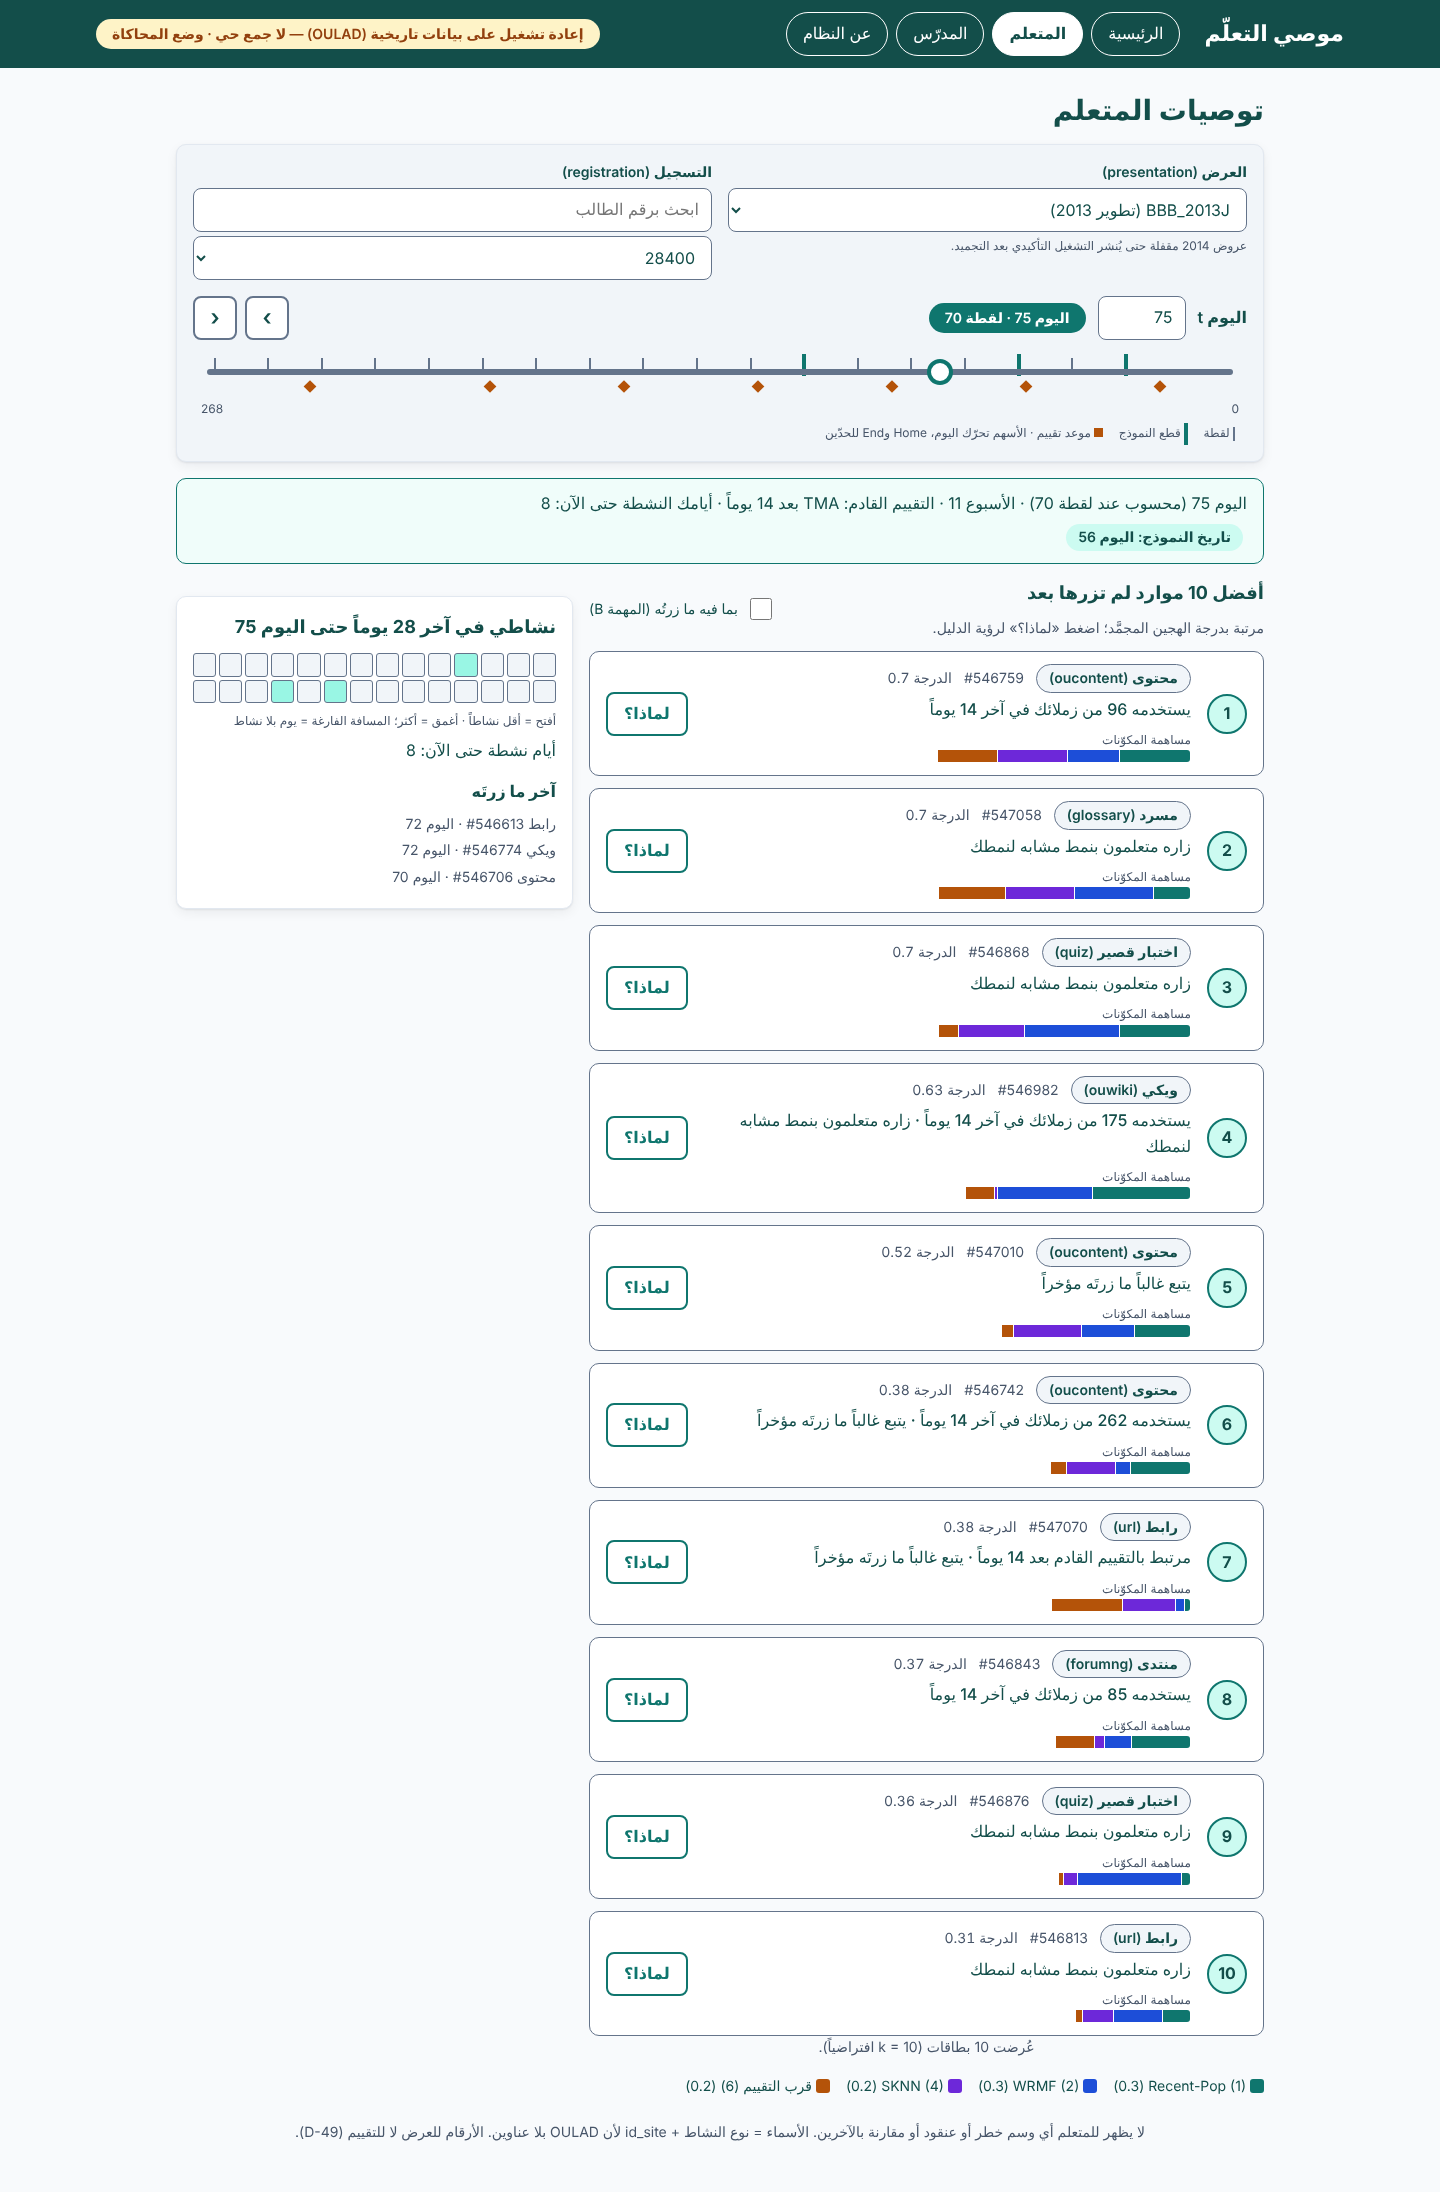
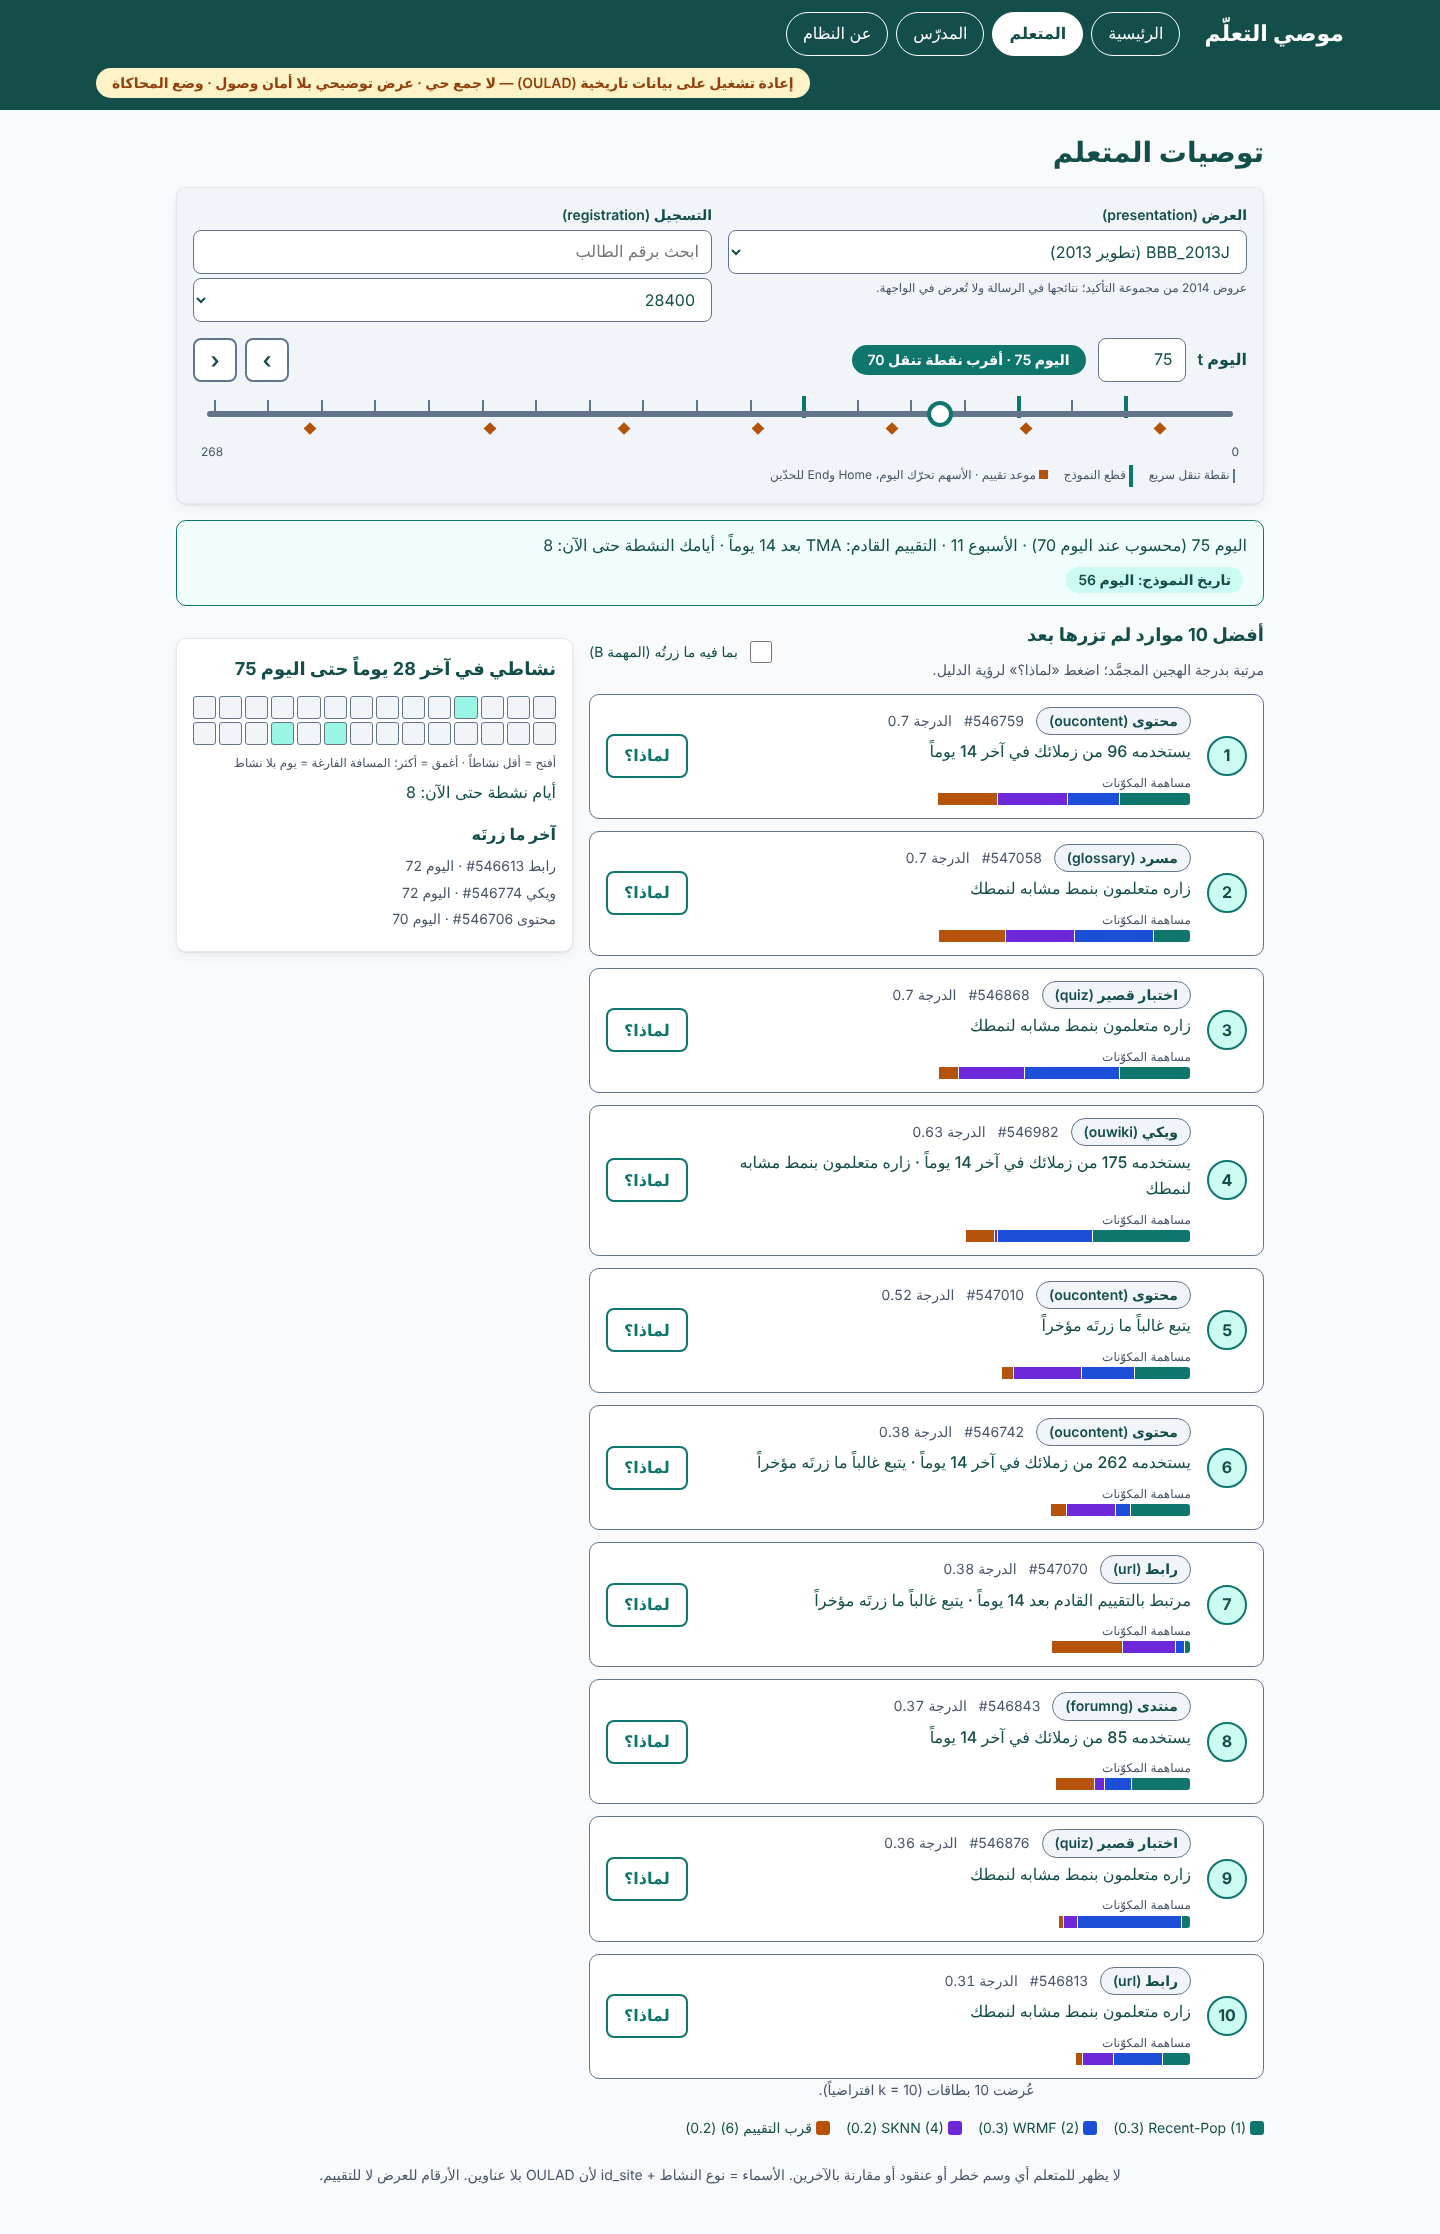
الواجهة: عروض 2014 «مقفلة في الواجهة» بدل «حتى النشر» (D-96(3))، ولقطات محدَّثة
- تعديل نصي وحده في 9 ملفات (رسالة 409، التسميات، التلميح، الشارة، about، README)؛ السلوك كما هو (409)، ولا مساس بـsrc/ml/
- اللقطات الحية والوهمية معاد توليدها (D-73 مستوفى)
- راجع الزميل الفرق: نصي وحده، الخلفية 52/52

Claude-Session: https://claude.ai/code/session_01Y5Ccgz17Pq2brpK5TTSYa7

diff --git a/src/frontend/about.html b/src/frontend/about.html
@@ -19,7 +19,7 @@
     <li>تفسير مكوّن GRU-lite عام وغير شفاف، ولا يُقيَّم التفسير بدراسة مستخدمين.</li>
     <li>درجة الخطر النسبية: ناتج انحدار لوجستي (L2) على ملامح السلوك في السجل (الأيام النشطة، انتظام الفجوات، أول وصول، حصص أنواع النشاط) حتى أقرب قطع (اليوم 28 أو 56 أو 112)، مدرَّبة على العروض الثمانية الأخرى من 2013 لتمييز من انتهى بـ«رسوب أو انسحاب» عمّن انتهى بـ«نجاح أو امتياز». هي غير معايَرة: ليست احتمالاً، وتصلح لترتيب الأولوية فقط، وللمدرّس وحده ولا تغيّر التوصيات.</li>
     <li>لا تُعرض السمات الحساسة (الجنس والإعاقة والمنطقة وغيرها) في أي شاشة.</li>
-    <li>عروض 2014 مقفلة حتى نشر التشغيل التأكيدي بعد التجميد.</li></ul></section>
+    <li>عروض 2014 من مجموعة التأكيد؛ نتائجها في الرسالة ولا تُعرض في الواجهة.</li></ul></section>
   <section class="card"><h2 class="h2">ثلاثة معانٍ لكلمة «قطع» و«لقطة»</h2>
     <div class="tablewrap"><table class="table"><caption class="sr-only">الفرق بين قطع النموذج وقطع الخطر ولقطة العناقيد</caption>
       <thead><tr><th scope="col">المصطلح</th><th scope="col">الأيام</th><th scope="col">ماذا يعني</th><th scope="col">أين يظهر</th></tr></thead>

diff --git a/src/frontend/src/api.ts b/src/frontend/src/api.ts
@@ -72,7 +72,7 @@ async function mockCheckDay(presentation: string, day: number): Promise<{ pres: 
   const list = await mockFile<Presentation[]>('presentations.json');
   const pres = list.find((x) => x.id === presentation);
   if (!pres) throw new ApiError(404, 'presentation_not_found', 'العرض غير موجود.');
-  if (pres.status !== 'published') throw new ApiError(409, 'confirmatory_locked', 'عرض 2014 مقفل حتى يُنشر بعد التجميد.');
+  if (pres.status !== 'published') throw new ApiError(409, 'confirmatory_locked', 'عرض 2014 من مجموعة التأكيد؛ نتائجه في الرسالة ولا يُعرض في الواجهة.');
   if (day > pres.length_days || day < 0) throw new ApiError(422, 'day_out_of_range', 'اليوم خارج مدى العرض.', { max_day: pres.length_days });
   const first = pres.snapshots[0];
   if (day < first) throw new ApiError(422, 'day_before_first_snapshot', `لا لقطة قبل اليوم ${first}.`, { first_day: first });

diff --git a/src/frontend/src/controls.ts b/src/frontend/src/controls.ts
@@ -16,7 +16,7 @@ export function presentationSelect(list: Presentation[], current: string, onChan
   for (const p of list) sel.append(h('option', { value: p.id, selected: p.id === current, disabled: p.status === 'locked' }, presLabel(p)));
   sel.addEventListener('change', () => onChange(sel.value));
   return h('div', { class: 'ctl' }, h('label', { for: id, class: 'ctl__lbl' }, 'العرض (presentation)'), sel,
-    list.some((p) => p.status === 'locked') ? h('span', { class: 'ctl__hint' }, 'عروض 2014 مقفلة حتى يُنشر التشغيل التأكيدي بعد التجميد.') : null);
+    list.some((p) => p.status === 'locked') ? h('span', { class: 'ctl__hint' }, 'عروض 2014 من مجموعة التأكيد؛ نتائجها في الرسالة ولا تُعرض في الواجهة.') : null);
 }
 
 export function makeScrubber(pres: Presentation, day: number, onChange: (d: number) => void): Scrubber {

diff --git a/src/frontend/src/home.ts b/src/frontend/src/home.ts
@@ -38,7 +38,7 @@ function render(): void {
     const b = h('button', { class: 'choice' + (p.id === st.p ? ' choice--on' : ''), type: 'button', role: 'radio', 'aria-checked': String(p.id === st.p), disabled: locked,
       onclick: () => { writeState({ p: p.id, r: '' }); render(); } },
       h('strong', {}, bdi(p.id)), h('span', {}, p.label_ar ?? p.role), h('span', { class: 'muted' }, `${registrationsAr(p.registrations)} · ${daysAr(p.length_days)}`),
-      locked ? h('span', { class: 'badge badge--warn' }, 'مقفل حتى النشر') : null);
+      locked ? h('span', { class: 'badge badge--warn' }, 'مقفل في الواجهة') : null);
     presGroup.append(b);
   }
   const picker = registrationPicker(st.p, st.r, (reg) => { writeState({ r: reg }); mount($('#cta-slot'), links()); });

diff --git a/src/backend/errors.py b/src/backend/errors.py
@@ -16,7 +16,7 @@ MESSAGES_AR = {
     "presentation_not_found": "العرض غير موجود.",
     "registration_not_found": "التسجيل غير موجود في هذا العرض.",
     "item_not_in_list": "التفسير غير متاح لهذا المورد: ليس ضمن أفضل 20 توصية لهذا التسجيل واليوم.",
-    "confirmatory_locked": "عروض 2014 مقفلة حتى يُنشر التشغيل التأكيدي بعد التجميد.",
+    "confirmatory_locked": "عروض 2014 من مجموعة التأكيد؛ نتائجها في الرسالة ولا تُعرض في الواجهة.",
     "instructor_disabled": "لوحة المدرّس معطّلة في هذا التشغيل (--no-instructor).",
     "day_before_first_snapshot": "لا تقدير للوحة المدرّس قبل أول يوم متاح.",
     "not_found": "المسار غير موجود.",

diff --git a/src/backend/services/replay.py b/src/backend/services/replay.py
@@ -93,7 +93,7 @@ class ReplayService:
         for n in LOCKED_LISTED:   # 2014: لا يُقرأ منها شيء (D-09)؛ العدد والطول غير معلنين
             out.append(Presentation(id=n, role="confirm", status="locked", length_days=0, snapshots=[],
                                     cutoffs=list(MODEL_CUTS), registrations=0,
-                                    label_ar="تأكيدي 2014 (مقفل حتى النشر)", assessments=[]))
+                                    label_ar="تأكيدي 2014 (مقفل في الواجهة)", assessments=[]))
         return out
 
     def _registration_frame(self, pres: str) -> pd.DataFrame:

diff --git a/src/backend/README.md b/src/backend/README.md
@@ -24,7 +24,7 @@ python3 -m src.backend --host 127.0.0.1 --port 8000 --warm-presentation BBB_2013
 |---|---|---|
 | `/api/health` | — | `{status, run_id, uptime_s, instructor_enabled, warm}` |
 | `/api/meta` | — | الإصدار، `git_commit` (+`git_dirty`)، `data_fingerprint` (MD5 لـ`data/oulad_md5_reference.txt`) و`data_files` (MD5 لكل ملف)، `components` (الأوزان الأولية المجمَّدة)، `cutoffs` = قطوع النموذج [70،126،182]، `risk_cutoffs` = [28،56،112]، `snapshot_grid` (نقاط التنقل السريع)، `presentations`، و`bind_host` و`access_notice` («عرض توضيحي بلا أمان وصول»، D-66)، و`risk_score` (الحقل `score`، «درجة خطر نسبية غير معايَرة»، الهدف: رسوب/انسحاب مقابل نجاح/امتياز، D-65) |
-| `/api/presentations` | — | 9 عروض 2013 `published` (الافتراضي FFF_2013J أولاً) + عرض 2014 واحد `locked` للتمثيل (عدد تسجيلاته وطوله 0: لا يُقرأ شيء من 2014، D-09) |
+| `/api/presentations` | — | 9 عروض 2013 `published` (الافتراضي FFF_2013J أولاً) + عرض 2014 واحد `locked` للتمثيل (عدد تسجيلاته وطوله 0: لا يُقرأ شيء من 2014، D-09؛ وتبقى مغلقة في الواجهة بقرار D-96 بلا فتح لاحق) |
 | `/api/registrations` | `presentation`، `q` (جزء من id_student)، `limit≤100`، `offset`، `day` (اختياري) | قائمة بيضاء (D-70): `registration, id_student, date_registration, status` فقط، لا `final_result` ولا `date_unregistration`. `status` بلا `day` دائماً `ok`؛ ومع `day`: `withdrawn` إن انسحب ≤ day، و`no_history` إن لا نشاط ≤ day. الترتيب: الأكثر أياماً نشطة حتى اليوم 75 أولاً |
 | `/api/recommendations` | `registration`، `day`، `k` 1..20، `task=A|B` | `provenance.model_cut` دائماً (null قبل اليوم 70)، `note`، `known_learner`، `status`، `components`، `items[{rank,id_site,activity_type,relevance,contributions,reason,reason_secondary}]` |
 | `/api/explanations/{reg}/{id_site}` | `day`، `task` | مكوّنات `{weight, r_tilde, contribution, evidence, sentence}` مرتبة بالمساهمة؛ الدليل `count|item|assessment`؛ 404 `item_not_in_list` خارج أفضل 20 |

diff --git a/src/frontend/README.md b/src/frontend/README.md
@@ -18,7 +18,7 @@ NODE_PATH=$(npm root -g) node screenshots.js   # لقطات وضع mock إلى s
 - كشف تلقائي: يفشل `GET /api/health` (أو لا يعيد JSON فيه `status`) ← تُقرأ ملفات `mock/*.json` عبر المسار النسبي `mock/…`.
 - فرض: `?mock=1` (يُحفظ في sessionStorage) و`?mock=0` للإلغاء. تظهر وسم «وضع المحاكاة» في الشريط العلوي.
 - `api.ts` يطبّق في المحاكاة منطق الخادم الأساسي: أخطاء 404/409/422 (`day_before_first_snapshot` مع `first_day`، `confirmatory_locked`)، حلّ اليوم t إلى اللقطة s ≤ t، `model_cut`، الأسبوع والتقييم القادم، الفرز والتصفية والترقيم لجدول المتعلمين.
-- المعرّفات العشوائية: بيانات المحاكاة لعرض BBB_2013J؛ العرض FFF_2013J يُعاد استعمالها باستبدال بادئة المعرّف. عرض BBB_2014J مقفل (409).
+- المعرّفات العشوائية: بيانات المحاكاة لعرض BBB_2013J؛ العرض FFF_2013J يُعاد استعمالها باستبدال بادئة المعرّف. عرض BBB_2014J مقفل في الواجهة (409): عروض 2014 من مجموعة التأكيد ونتائجها في الرسالة.
 - الأرقام في المحاكاة وهمية (اصطناعية) للعرض فقط، لا لتقييم أي شيء (D-49).
 
 ## بنية الملفات
